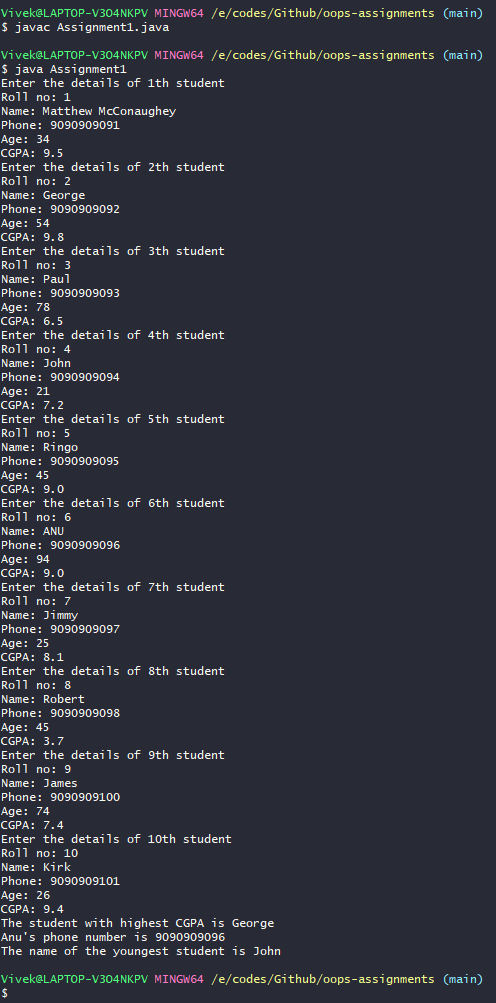
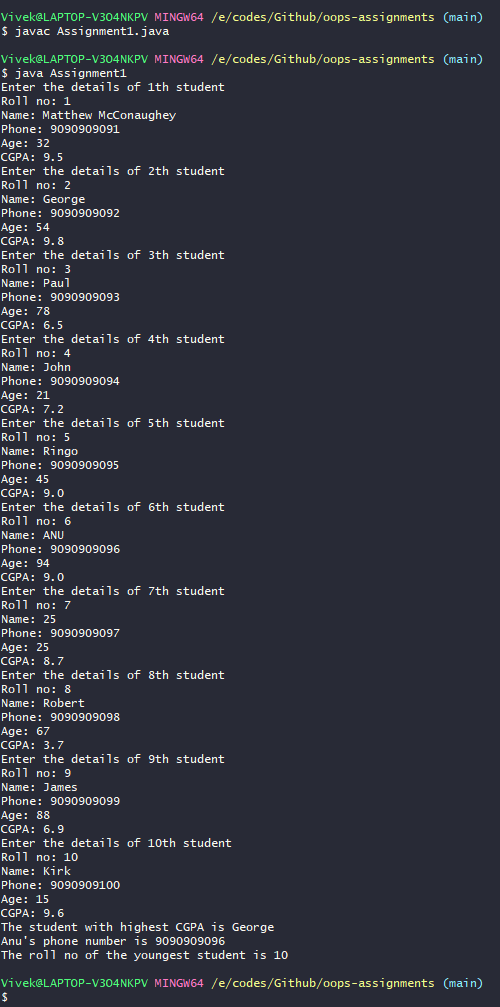
Assignment 1

diff --git a/Assignment1.java b/Assignment1.java
@@ -77,6 +77,6 @@ public class Assignment1 {
             }
         }
 
-        System.out.println("The name of the youngest student is " + stud[young].name);
+        System.out.println("The roll no of the youngest student is " + stud[young].rollno);
     }
 }
